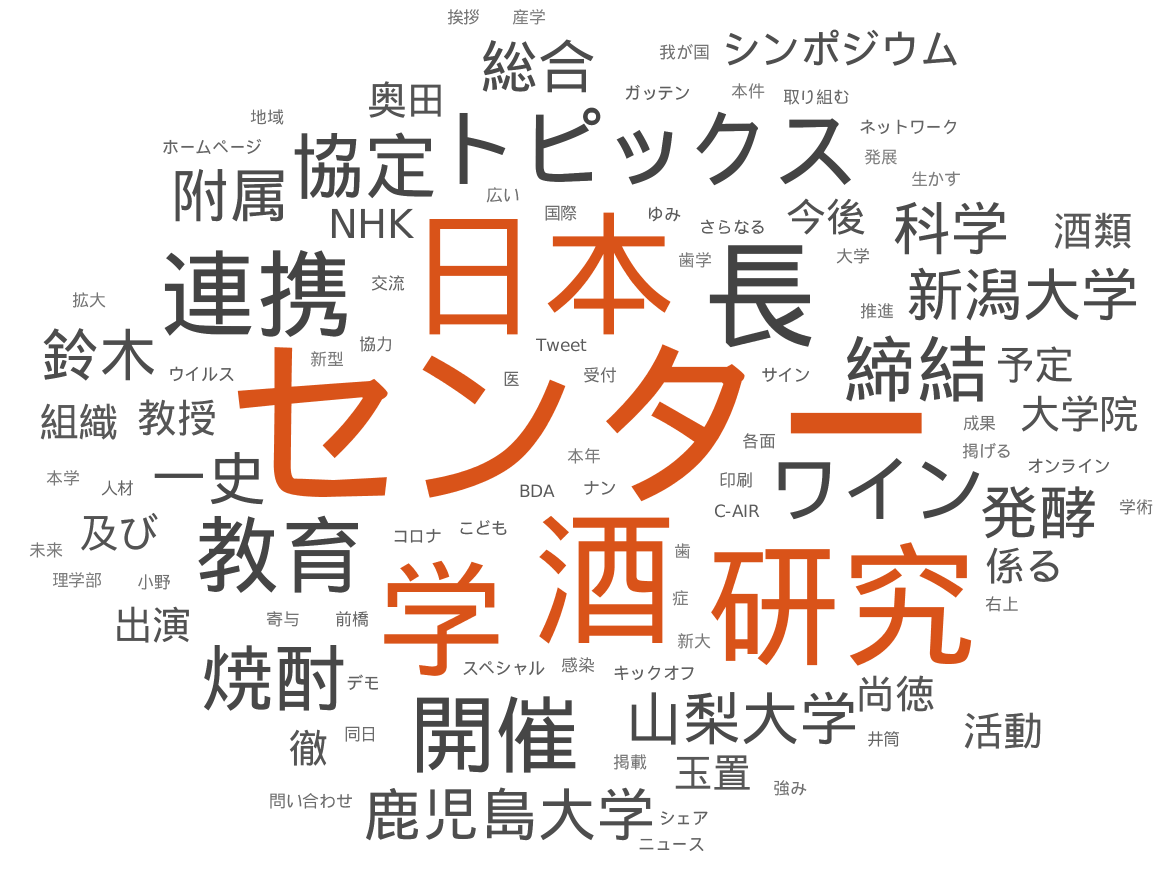
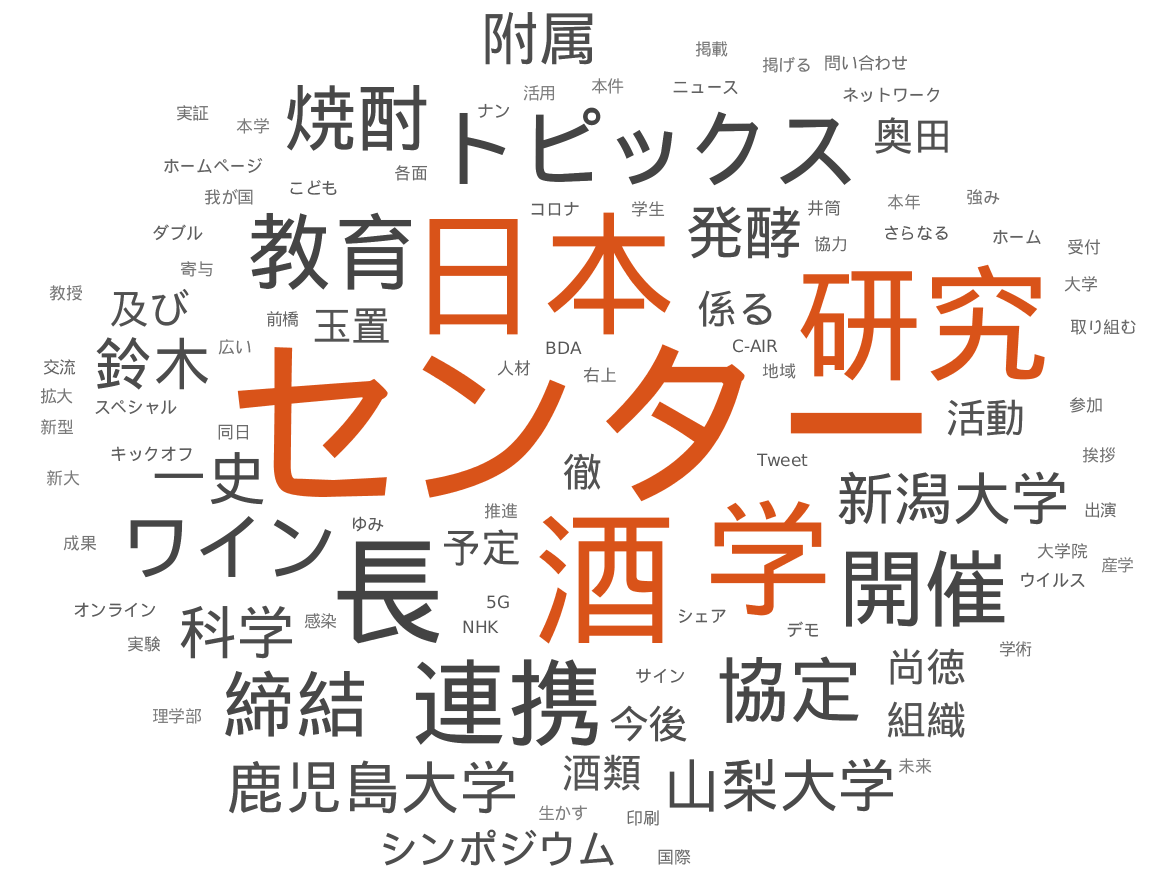
CI autogen [ci skip]

diff --git a/docs/_posts/2021-10-14-ダブルホームの学生が「5Gを活用した実証実験」に参加しました.md b/docs/_posts/2021-10-14-ダブルホームの学生が「5Gを活用した実証実験」に参加しました.md
@@ -1,0 +1,7 @@
+---
+layout: post
+title: ダブルホームの学生が「5Gを活用した実証実験」に参加しました
+---
+Autogenerated Word Cloud.
+Source\: [https://www.niigata-u.ac.jp/campus/shindaisei/2021/94827/](https://www.niigata-u.ac.jp/campus/shindaisei/2021/94827/)
+![WordCloud]({{ site.baseurl }}/assets/ef160c1cf0cfcbde39ec170062e28c50.png)
